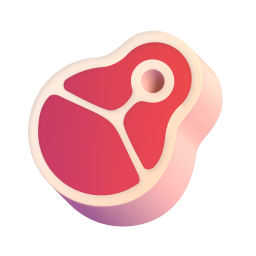
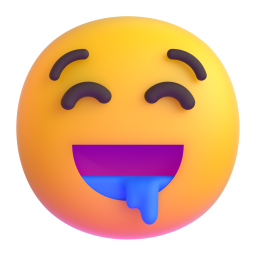
Figurinhas de expressao nos presentes, seguindo as ideias dos noivos
- Troca as figurinhas pelos emojis de reacao que combinam com cada piada:
  babando (costela), olhos de cobiça (bolo), flor murcha (planta), silencio
  (fundo da noiva), bombeiros (churrasco), dancarino (playlist), balanca
  (mounjaro), grito (seguro), cabeca explodindo (terapia), coroa (sentar),
  olhos em espiral (calmantes), alvo (buque), dando de ombros (bola de cristal),
  cifroes (rico), dedinhos (nao dei nada) e choro (cartao).
- MasterChef, bagagem e fitness mantem cozinheiro, mala e musculacao.
- README ganha a tabela arquivo -> presente -> figurinha e explica por que os
  personagens de meme (Homer, Bob Esponja, Seu Madruga) nao podem ser usados.

diff --git a/presentes/README.md b/presentes/README.md
@@ -86,6 +86,32 @@ Regras rápidas:
 - `data-favorito="sim"` cria o selo **Mais pedido** e entra no filtro ❤.
 - `data-nome` precisa ser igual ao nome mostrado no `<h3>`: é ele que vai na mensagem.
 - Cada presente tem uma figurinha em 3D do conjunto aberto **Fluent Emoji (Microsoft, licença MIT)**, guardada localmente em `assets/stickers/*.png`. O card chama `<img class="mimo-sticker" src="assets/stickers/nome.png">`. Para trocar, substitua o arquivo `nome.png` (ou aponte o `src` para outro). A atribuição está em `assets/stickers/LICENCA.txt`.
+
+Figurinha de cada presente (arquivo → imagem):
+
+| Arquivo | Presente | Figurinha |
+| --- | --- | --- |
+| `costela.png` | Costela do Noivo | carinha babando |
+| `bolo.png` | Primeira Fatia do Bolo | olhos de cobiça |
+| `planta.png` | Planta da Varanda | flor murcha |
+| `batom.png` | Fundo Emergencial da Noiva | carinha de "silêncio" |
+| `churrasco.png` | Fundo do Churrasco | caminhão de bombeiros |
+| `playlist.png` | Playlist do Nosso Amor | dançarino |
+| `masterchef.png` | William MasterChef | cozinheiro |
+| `mounjaro.png` | Mounjaro para os Noivos | balança |
+| `seguro.png` | Seguro para o carro da Noiva | carinha gritando |
+| `terapia.png` | Terapia para os Noivos | cabeça explodindo |
+| `bagagem.png` | Taxa de Bagagem | mala |
+| `fitness.png` | Fitness | musculação |
+| `sentar.png` | Sentar ao lado dos noivos | coroa |
+| `calmantes.png` | Calmantes para o dia do Casamento | carinha com olhos em espiral |
+| `buque.png` | Jogar o buquê em sua direção | alvo |
+| `bola.png` | Bola de cristal | ombros dando de ombros |
+| `rico.png` | Você quer mostrar que é rico | carinha com cifrões |
+| `nada.png` | Só para dizer que não dei nada | dedos medindo pouquinho |
+| `cartao.png` | Ajude a pagar nosso cartão | carinha chorando |
+
+Os personagens de meme que vocês citaram (Homer, Bob Esponja, Nazaré, Seu Madruga, John Travolta) são protegidos por direitos autorais e não podem ir para um site público. As figurinhas acima são as reações equivalentes, de um conjunto aberto.
 - O `id` do campo de valor precisa ser único na página.
 - Depois de qualquer edição, rode `node ferramentas/preencher-links-mimos.mjs`.
 - O total de presentes aparece no texto da seção de filtros (procure por `id="totalMimos"`).
